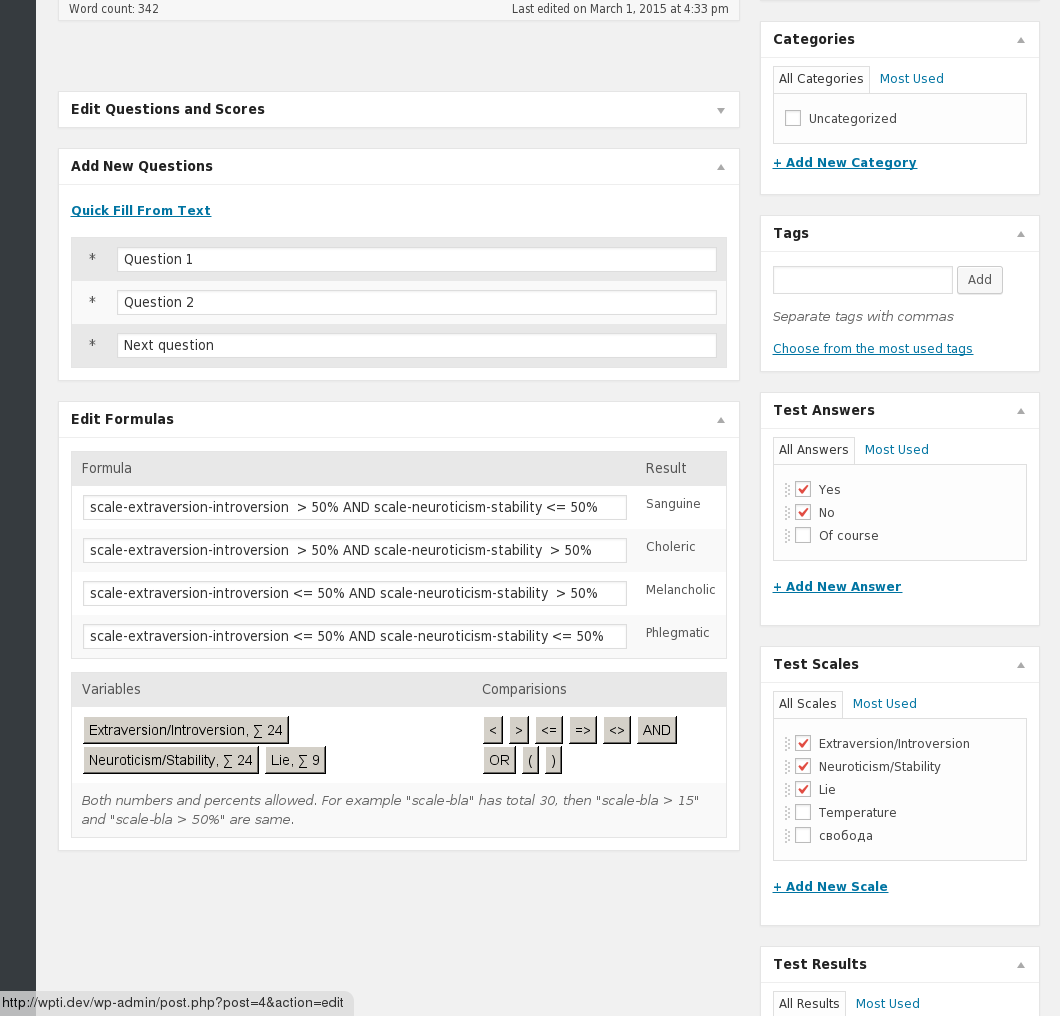
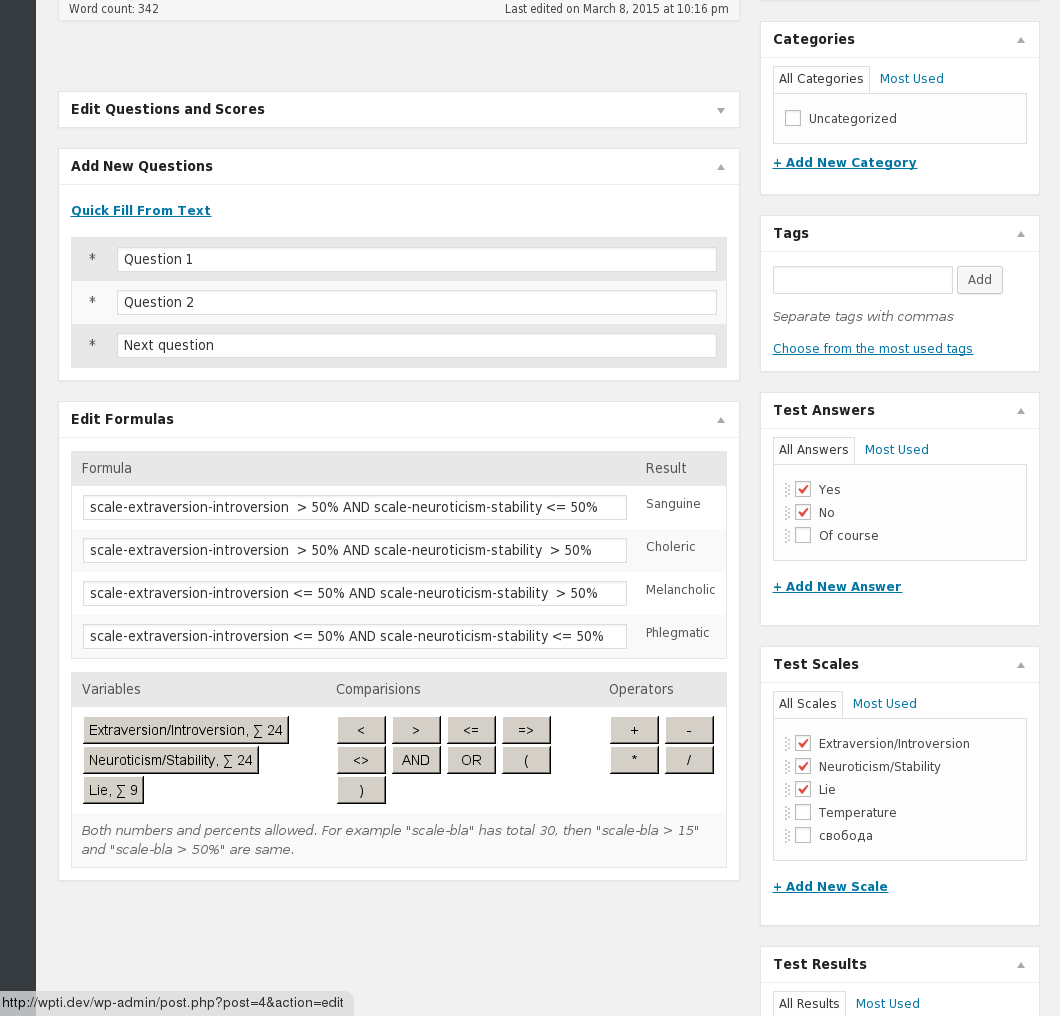
Describe hotfix in changelog and bump version to 0.9.4
* Update diagram screenshots
* Update readme for FR

Changed region(s): [[0.0623, 0.6713, 0.6849, 0.8543], [0.4981, 0.0, 0.6538, 0.0305]]

diff --git a/tools/screenshots/create-screenshots.js b/tools/screenshots/create-screenshots.js
@@ -200,7 +200,7 @@ var screenshots = [
     }, {
         title   : 'Test results with scales chart. Hovered scale shows it`s value and title in dynamic tag',
         actions : function () {
-            casper.thenOpen('http://wpti.dev/test/diagram-with-few-scales-of-same-length/').waitForUrl(/diagram-with-few/, function() {
+            casper.thenOpen('http://wpti.dev/test/diagram-with-same-length-scales/').waitForUrl(/diagram-with-same/, function() {
                 this.clickLabel('Yes', '*[@id="wpt-test-form"]/*//label')
                 this.fill('form#wpt-test-form', {}, true)
             }).waitForUrl(/test.+[a-z0-9]+[a-f0-9]{32}/, function () {
@@ -208,9 +208,9 @@ var screenshots = [
             })
         }
     }, {
-        title   : 'In case of too many scales their labels are rotated. Also when scales has different length (possible max total) they are shown as percents',
+        title   : 'In case when scales has different length (possible max total) they are shown as percents',
         actions : function () {
-            casper.thenOpen('http://wpti.dev/test/diagram-with-many-scales-of-different-length/').waitForUrl(/diagram-with-many/, function() {
+            casper.thenOpen('http://wpti.dev/test/diagram-with-different-length-scales-uses-percents/').waitForUrl(/diagram-with-different/, function() {
                 this.clickLabel('Yes', '*[@id="wpt-test-form"]/*//label')
                 this.fill('form#wpt-test-form', {}, true)
             }).waitForUrl(/test.+[a-z0-9]+[a-f0-9]{32}/, function () {

diff --git a/wp-testing.php b/wp-testing.php
@@ -3,7 +3,7 @@
  * Plugin Name: Wp-testing
  * Plugin URI: http://wordpress.org/extend/plugins/wp-testing/
  * Description: Helps to create psychological tests.
- * Version: 0.9.3
+ * Version: 0.9.4
  * Author: Alexander Ustimenko
  * Author URI: http://ustimen.co
  * License: GPL3

diff --git a/README.md b/README.md
@@ -1,11 +1,11 @@
 # Psychological tests & quizes #
 
-**Contributors:** ustimenko, borrypsy, ilariarizzo, jacha, coach2talk, ikurtuldu  
+**Contributors:** ustimenko, chrispeiffer, jacha, ilariarizzo, borrypsy, coach2talk, ikurtuldu  
 **Donate link:** http://apsiholog.ru/psychological-tests/  
 **Tags:** psychological, testing, test, quiz  
 **Requires at least:** 3.2  
 **Tested up to:** 4.1.1  
-**Stable tag:** 0.9.3  
+**Stable tag:** 0.9.4  
 **License:** GPLv3  
 **License URI:** http://www.gnu.org/licenses/gpl-3.0.html  
 
@@ -34,7 +34,7 @@ Respondent will get **results** on it's own individual passing page, which will 
 **Test** page can be customized: reset answers on "Back" button, use your own caption for "Get Test Result" button. allow multiple answers per question and show percentage of answered questions.
 **Results** page also can be customized: when you need to show/hide scales or test description on it; when you want to show scales chart or sort scales by scores sum.
 
-Wp-testing localized into nine languages: English, Russian (native speaker), German, French, Dutch (native speaker), Swedish, Bulgarian (native speaker), Italian (native speaker) and Turkish (native speaker). English, Russian, Bulgarian, Italian, Turkish and Dutch have good quality — others need review. You can easily add your language through excellent [Transifiex](https://www.transifex.com/projects/p/wp-testing/) service. **Translators** and *reviewers* are kindly welcome! See http://wp-translations.org/join/ for instructions.
+Wp-testing localized into nine languages: English, Russian (native speaker), German, French (native speaker), Dutch (native speaker), Swedish, Bulgarian (native speaker), Italian (native speaker) and Turkish (native speaker). English, Russian, French, Bulgarian, Italian, Turkish and Dutch have good quality — others need review. You can easily add your language through excellent [Transifiex](https://www.transifex.com/projects/p/wp-testing/) service. **Translators** and *reviewers* are kindly welcome! See http://wp-translations.org/join/ for instructions.
 
 **Quality** and **compatibility** are taken really seriously. Plugin tested on [40 combinations](https://travis-ci.org/garex/wp-testing) of WordPress (from 3.2 to 4.1.1) and PHP (from 5.2 to 5.5) plus two custom combinations for old MySQL storage engine (MyISAM) and with few popular plugins. So you can be sure, that it will just work, even if you don't have  the latest WordPress or your hosting doesn't have the latest versions of PHP/MySQL. [Build status image](https://travis-ci.org/garex/wp-testing.svg?branch=develop) is available.
 
@@ -49,6 +49,7 @@ PS: **If something broken or doesn't work**, pls create new topic in ["Support" 
 * For Italian translation thanks to Ilaria Rizzo (dott.rizzo.ilaria@gmail.com)
 * For Turkish translation thanks to Islam Kurtuldu
 * For Dutch translation thanks to Jacha Heukels (info@orthomanueeldierenarts.nl)
+* For French translation thanks to Christophe Peiffer <chris.peiffer@gmail.com>
 
 
 ## Installation ##
@@ -85,5 +86,5 @@ PS: **If something broken or doesn't work**, pls create new topic in ["Support" 
 15. Scale description with "more..." text opened (after clicking on "more" link)
 16. A test without scores is shown like a "Test is under construction". Answers titles are those that was entered
 17. Test results with scales chart. Hovered scale shows it`s value and title in dynamic tag
-18. In case of too many scales their labels are rotated. Also when scales has different length (possible max total) they are shown as percents
+18. In case when scales has different length (possible max total) they are shown as percents
 19. Multiple answers per question are also possible

diff --git a/CHANGELOG.md b/CHANGELOG.md
@@ -2,12 +2,26 @@
 ## Changelog ##
 
 
+### 0.9.4 ###
+
+Add more math operators, native FR lang and improve scales' chart #2  
+
+* Avoid rotating text labels when we have too many scales
+* Show mini-annotations like abbrevirations always near data values
+* Make annotations as popups instead of tags
+* Improve one-scale case
+* Translate update reviewed locale for FR lang
+* Add more math operators: "+*/"
+* Enable advanced options for default test
+
+
 ### 0.9.3 ###
 
 Improve scales' chart
 
 * Use ratio (percents) when scales lengths differs
 * Rotate text labels to 45 degrees when we have too many scales
+
 
 ### 0.9.2 ###
 
